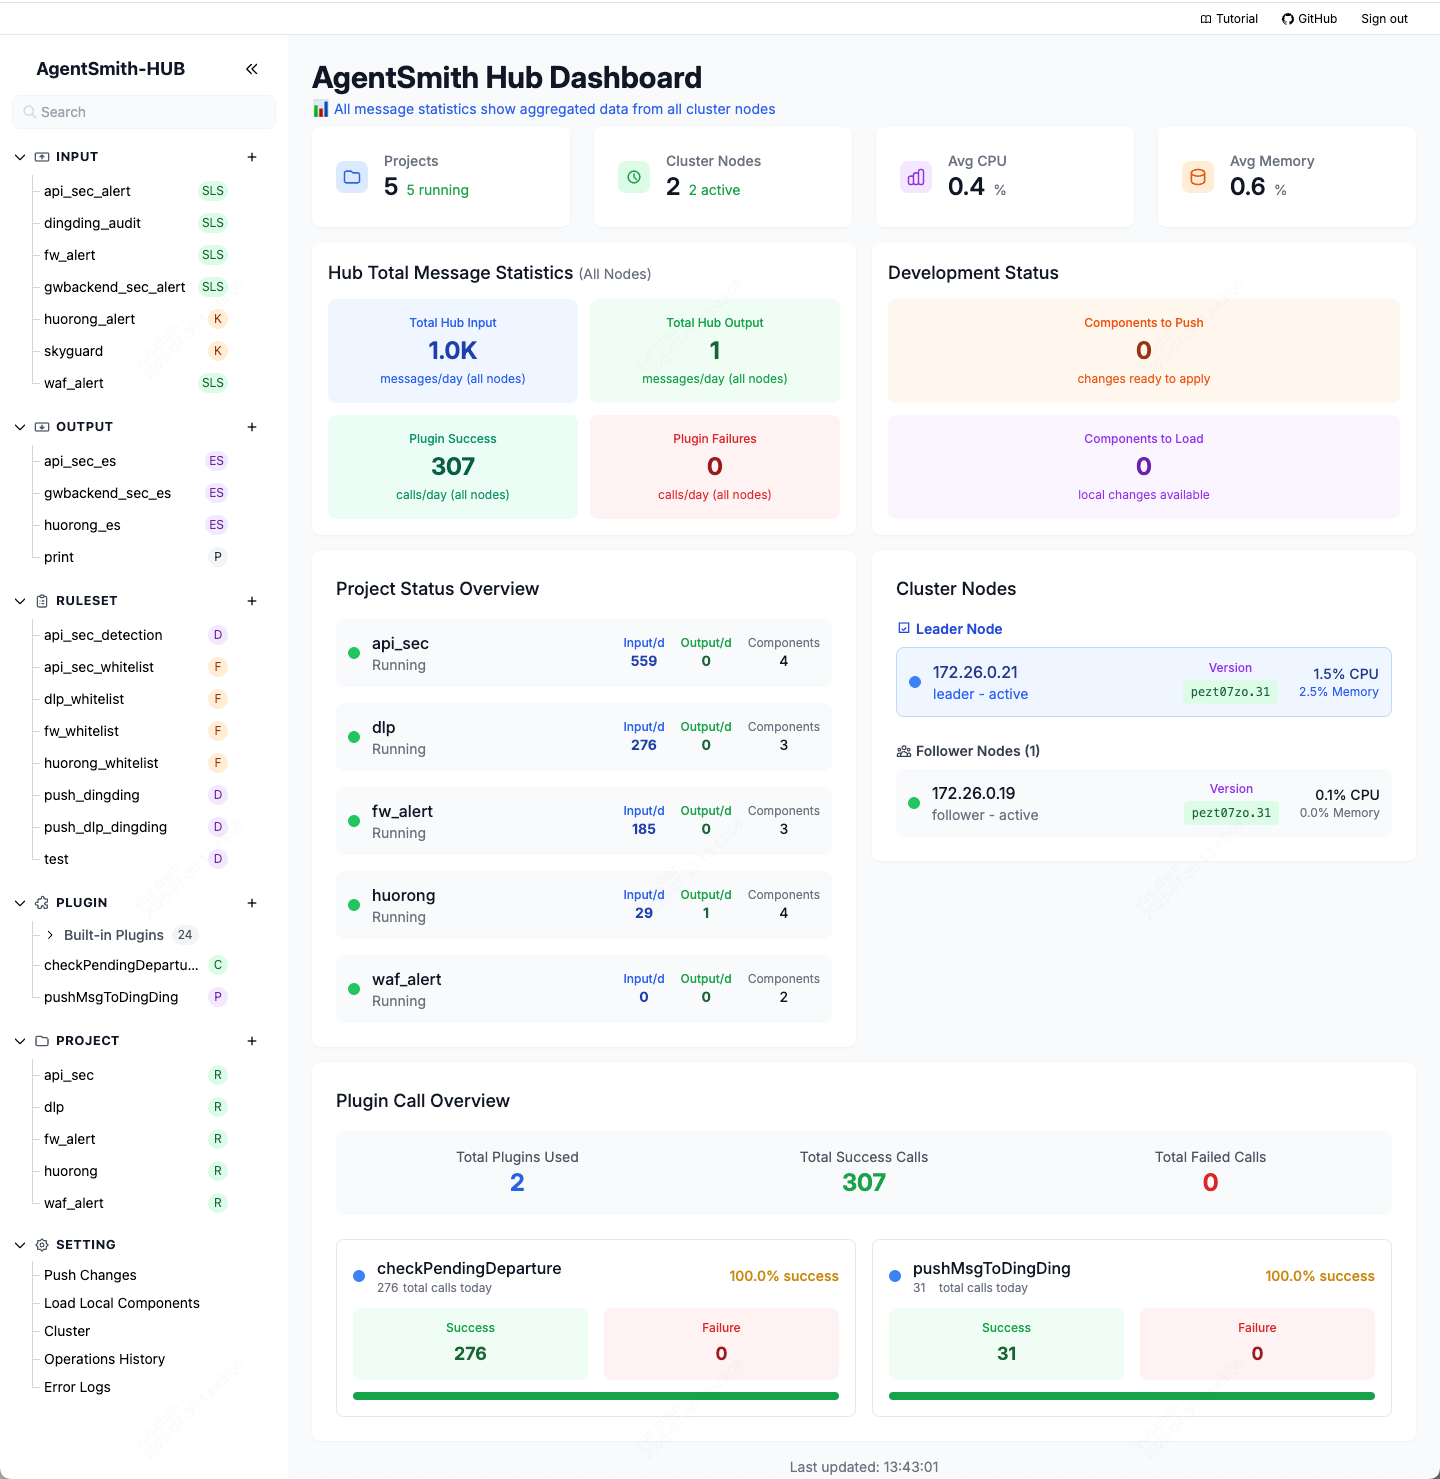
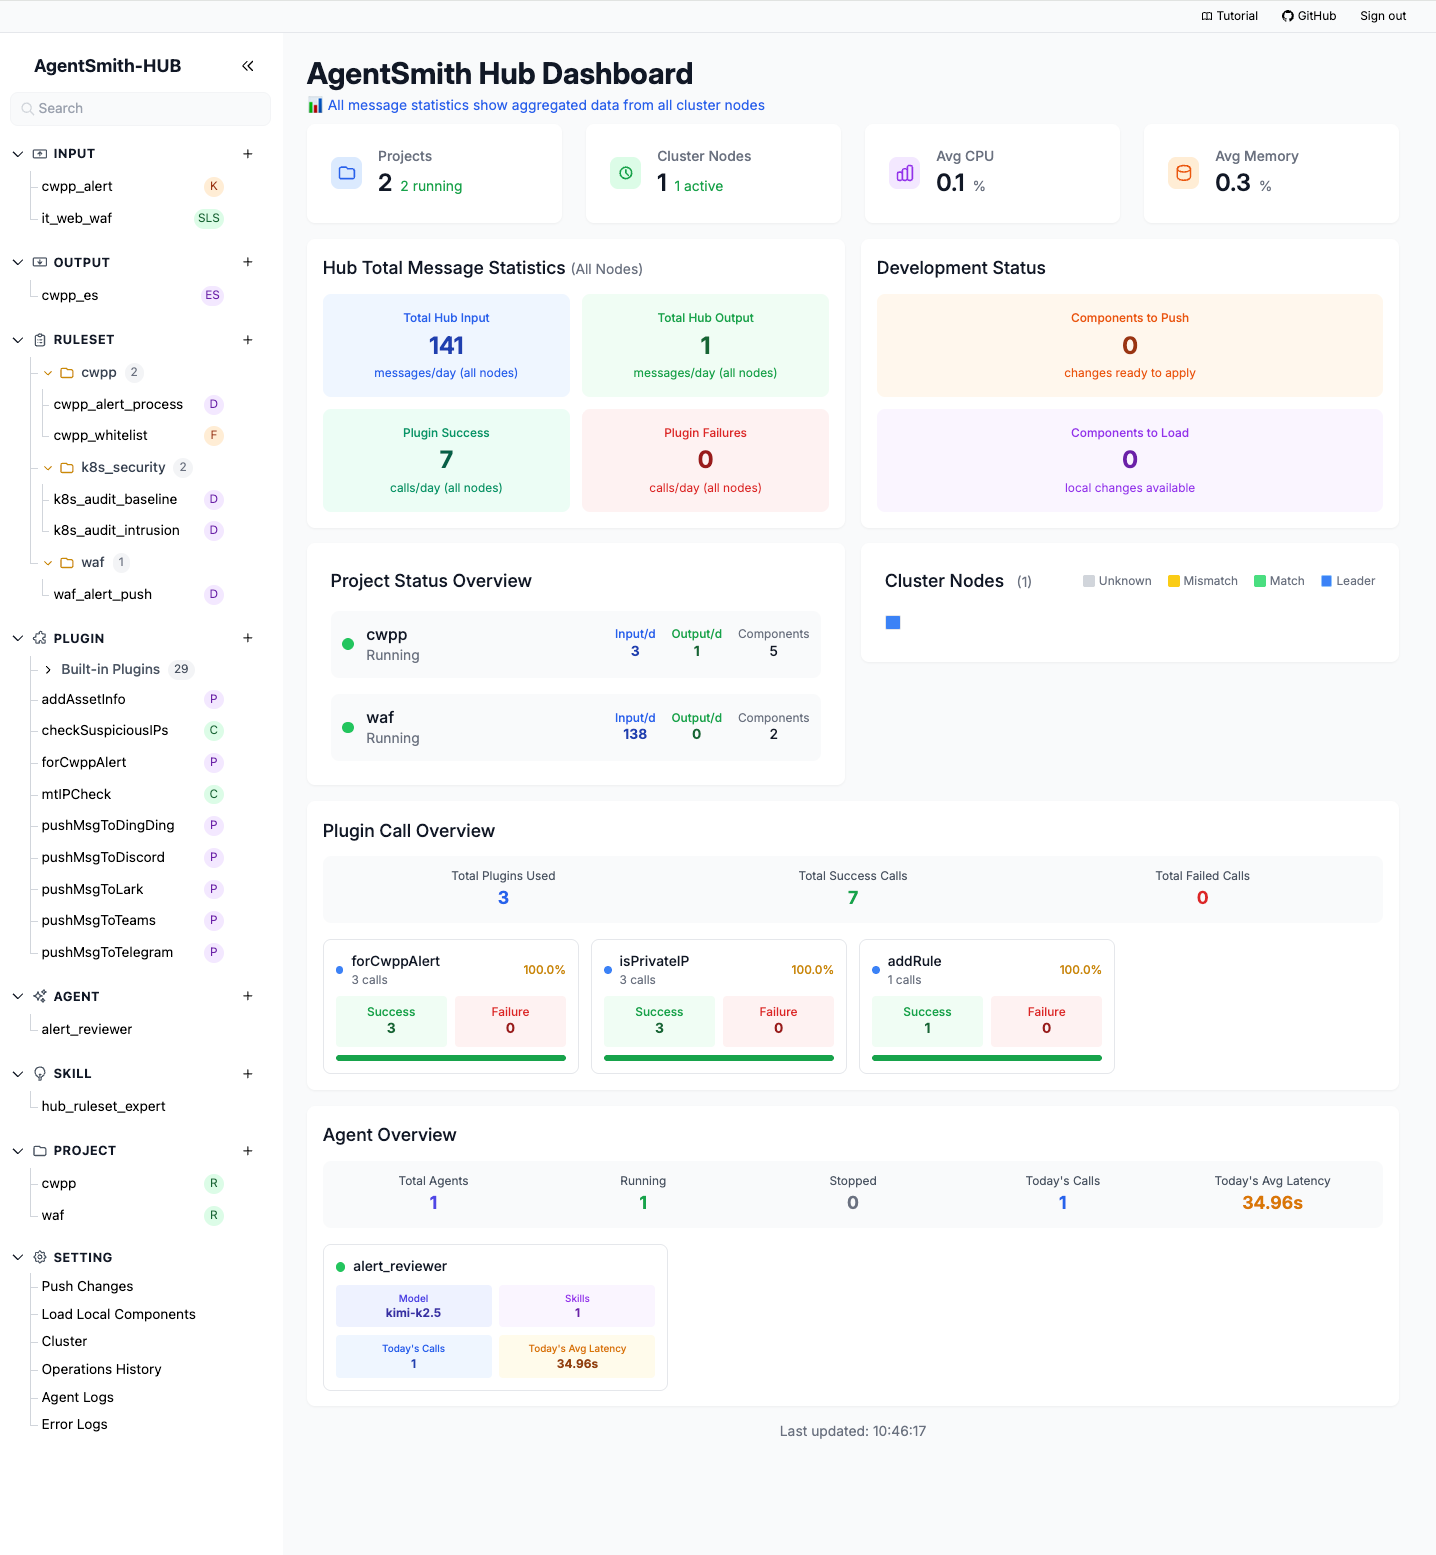
docs: refresh memory workflow docs and dashboard visuals
Add comment-to-memory screenshots to README and guides, and update dashboard
image assets to match the latest UI presentation.

Made-with: Cursor

diff --git a/docs/agentsmith-hub-guide.md b/docs/agentsmith-hub-guide.md
@@ -499,6 +499,8 @@ Legacy multiline string remains supported for backward compatibility, but new co
 - **API path**: memory update and generate-from-log endpoints apply changes and auto-commit them as component changes.
 - **Cluster rule**: memory write/generate actions must run on the **leader** node; follower nodes reject these write operations.
 
+![Memory](png/Memory.png)
+
 #### Example: Alert Review Agent
 
 ```yaml

diff --git a/docs/agentsmith-hub-guide-zh.md b/docs/agentsmith-hub-guide-zh.md
@@ -498,6 +498,8 @@ memory_notes:
 - **API 路径**：可通过 memory 相关接口更新/生成并自动提交组件变更。
 - **集群注意**：memory 写入与生成必须在 **leader** 节点执行，follower 会拒绝这类写操作。
 
+![Memory](png/Memory.png)
+
 #### 示例：告警审核 Agent
 
 ```yaml

diff --git a/README.md b/README.md
@@ -248,8 +248,17 @@ More built-in rulesets for additional data sources are on the roadmap. Contribut
 ![ErrlogOperations](docs/GIF/ErrlogOperations.gif)
 
 </td>
+<td width="50%">
+
+**Comment-to-memory learning loop**
+
+![Comment-to-memory](docs/png/Memory.png)
+
+</td>
 </tr>
 </table>
+
+
 
 ## Deployment
 
